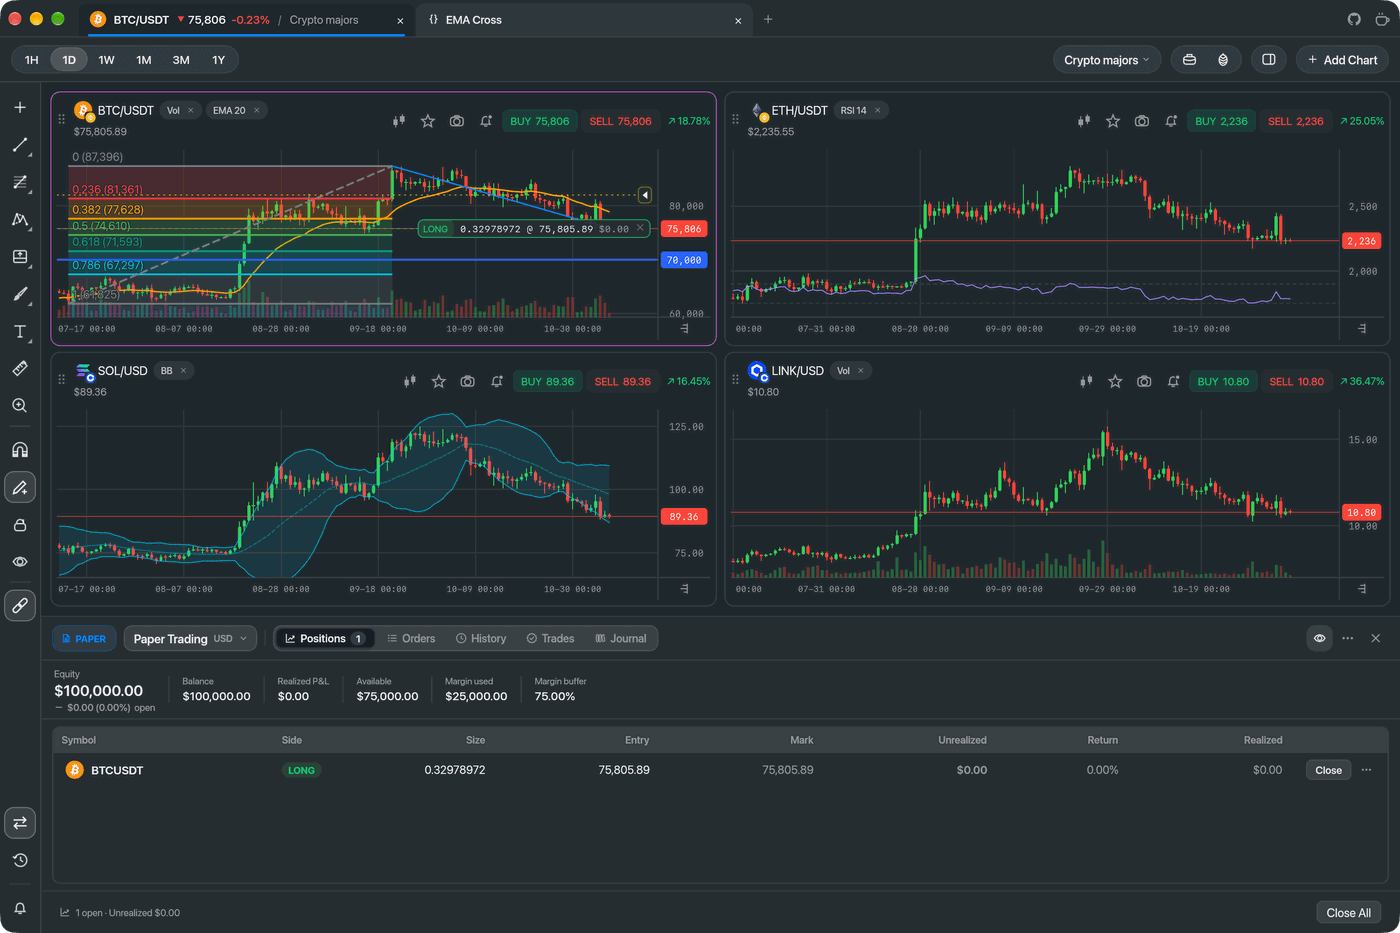
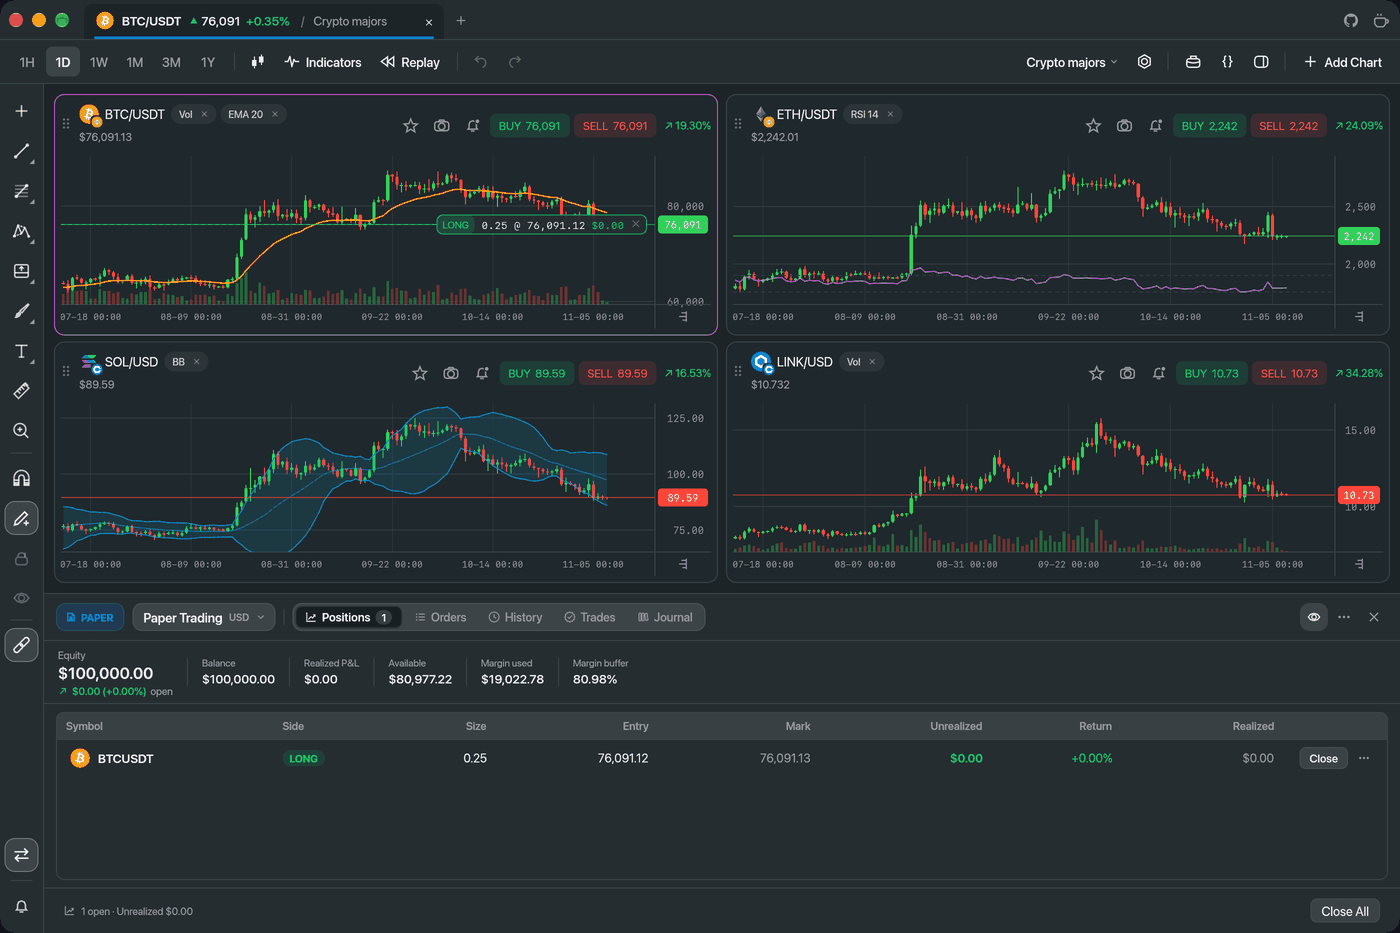
Docs: the flat toolbar, the indicator picker and 25 built-in indicators
The chart type, indicators and replay controls moved out of the chart header
and the tool rail into the toolbar, and the header's "+" menu became the
Indicators picker with 20 bundled Pine indicators. Update the pages that
described the old places and retake the screenshots that show the toolbar:
empty tab, layout tab, watchlist, replay, paper trading, table view, object
tree, layout menu, chart type menu and the indicator picker. Add a toolbar
section to Charts & navigation.

diff --git a/docs/charts/indicators.md b/docs/charts/indicators.md
@@ -1,8 +1,10 @@
 # Indicators
 
-Indicators add context to a chart without changing the price data. DegenView has five built in, and you can add your own with [Pine scripts](/pine/using-scripts).
+Indicators add context to a chart without changing the price data. DegenView has 25 built in: five native ones and 20 that are Pine scripts bundled with the app. You can also add your own with [Pine scripts](/pine/using-scripts).
 
 ## The built-in indicators
+
+Five are native to the chart:
 
 | Indicator | What it shows |
 | --- | --- |
@@ -12,17 +14,42 @@ Indicators add context to a chart without changing the price data. DegenView has
 | **Bollinger Bands** (chip **BB**) | A 20-period average with bands two standard deviations either side. |
 | **Trend Flips** | Bullish and bearish markers from a 10-period ATR × 3 trend line. They appear after the candle closes and can whipsaw in sideways markets. |
 
-Each one can be added once per chart. RSI needs more than 14 candles, so zoom out or pick a longer timeframe if it looks empty.
+Each native indicator can be added once per chart. RSI needs more than 14 candles, so zoom out or pick a longer timeframe if it looks empty.
+
+The other 20 are ordinary Pine scripts that ship inside DegenView. They are always available, never appear in your scripts folder, and have inputs and styles like any script:
+
+| Family | Indicators |
+| --- | --- |
+| **Trend** | Ichimoku Cloud, Parabolic SAR, Moving Average Ribbon, Linear Regression Bands, ADX / DMI, Aroon |
+| **Momentum** | MACD, Stochastic, Stochastic RSI, CCI, Williams %R, Awesome Oscillator |
+| **Volatility** | Donchian Channels, Keltner Channels, ATR |
+| **Volume & Flow** | VWAP, Chaikin Money Flow, Money Flow Index, OBV |
+| **Structure** | Williams Fractals |
+
+Ichimoku, Parabolic SAR, the channels, the ribbon, VWAP, Williams Fractals and Linear Regression Bands draw on the price. The rest get a pane of their own. You can add a bundled indicator more than once, for example two MACDs with different lengths. VWAP needs volume.
 
 ## How to add one
 
-1. Click **+** in the chart header, next to the chips. Once a chart has indicators, the **+** shows while you hover the header.
-2. Type in **Search indicators and scripts**, or use the arrow keys and Return.
-3. Pick an indicator under **Built-in**.
+1. Click a chart to focus it, then click **Indicators** in the toolbar. The picker opens.
+2. Type in the search box, or browse the sidebar. Searching looks through every section and also matches aliases, so "stoch rsi" finds **Stochastic RSI**.
+3. Click a card to see its preview and description, then click **Add to chart**. Return adds the selected one and closes the picker. Shift+Return adds it and keeps the picker open.
 
-![Add indicator menu listing built-in indicators and scripts](/images/charts/add-indicator.png)
+![The indicator picker](/images/charts/add-indicator.png)
 
-Indicators already on the chart are not listed again. Saved Pine scripts appear under **Scripts**, and the footer has **Pine Studio…** and **All Indicator Settings…**.
+The sidebar groups the list:
+
+- **Yours**: **Favorites**, **My scripts** (your saved Pine scripts) and **Open Pine Studio**.
+- **Built-in**: **Overlays** and **Separate pane**.
+- **Library**: **Discover**, a popular row followed by the rest in a shuffled order (click **Shuffle** for another), and **All indicators**.
+- **Families**: Trend, Momentum, Volatility, Volume & Flow and Structure.
+
+Each card shows a small preview chart drawn on made-up bars. The detail panel has the description, the author and licence, and whether the indicator draws on the price (**Overlay**) or in its own pane (**Separate pane**). An indicator already on the chart says **On chart**, and its button reads **Remove from chart** (native ones) or **Add another copy** (scripts and bundled ones). The star next to **Add to chart** adds the indicator to your **Favorites**; press F to do the same from the keyboard. Arrow keys move through the list and Esc, or **Done**, closes the picker.
+
+The button is greyed out when no market chart is focused. On a line chart only Volume is offered of the native indicators, and scripts are not.
+
+## Pine scripts
+
+Your saved indicators and strategies are listed under **My scripts**. Everything added from the picker, native or script, is one step for undo.
 
 ## Chips
 
@@ -36,7 +63,7 @@ When there are more than three chips, the rest fold into a **+N** pill that open
 
 ## Use the settings sheet instead
 
-Open **Chart settings** (click the market name) and choose the **Indicators** tab. It lists all five with a switch each, and the EMA period picker.
+Open **Chart settings** (click the market name) and choose the **Indicators** tab. It lists the five native indicators with a switch each, and the EMA period picker.
 
 ![Indicators page in chart settings](/images/charts/settings-indicators.png)
 
@@ -44,4 +71,4 @@ The same sheet has a **Scripts** tab for Pine scripts on the chart. To remove se
 
 ## Limits
 
-Prediction-market and CoinMarketCap charts are lines, and have no volume bars. CoinMarketCap charts have no indicators or scripts at all. On other line charts the indicator menu lists no Pine scripts.
+Prediction-market and CoinMarketCap charts are lines, and have no volume bars. CoinMarketCap charts have no indicators or scripts at all. On other line charts the picker offers no Pine scripts.

diff --git a/docs/charts/charts.md b/docs/charts/charts.md
@@ -8,10 +8,30 @@ The top of each card is its header, left to right:
 
 - A grip to drag the card to a new place.
 - The source logo, the market name and the last price. Click any of them to open **Chart settings**.
-- Indicator chips and a **+** button. See [Indicators](/charts/indicators).
-- On the right: the chart-type button ([Chart types](/charts/chart-types)), a star for **Favorites**, a camera for [snapshots](/charts/snapshots), a bell for [price alerts](/alerts/price-alerts), and the percent change across the bars you see now. Prediction-market and CoinMarketCap charts have no chart-type button or bell.
+- Indicator chips. See [Indicators](/charts/indicators).
+- On the right: a star for **Favorites**, a camera for [snapshots](/charts/snapshots), a bell for [price alerts](/alerts/price-alerts), and the percent change across the bars you see now. Prediction-market and CoinMarketCap charts have no bell.
+
+The chart type and the indicator picker are not in the header. They are buttons in the toolbar above the cards, and they act on the focused chart.
 
 Under the header is the plot, with the price axis on the right and the time axis at the bottom. A box of open, high, low and close values shows at the top left of the plot while you hover. A **Replay** badge appears in the header during [replay](/trading/replay). Right-click anywhere for the menus described in [Chart settings & templates](/charts/settings-templates).
+
+## The toolbar
+
+The toolbar runs across the top of every chart tab.
+
+![The toolbar](/images/charts/toolbar.png)
+
+From the left:
+
+- **1H, 1D, 1W, 1M, 3M, 1Y** set the candle size for every chart in the tab. See [Adding charts](/markets/adding-charts#timeframe).
+- The **chart-type** button opens the [chart type](/charts/chart-types) menu.
+- **Indicators** opens the [indicator picker](/charts/indicators).
+- **Replay** starts and stops [historical replay](/trading/replay). While a replay is open it is lit.
+- **Undo** and **Redo** step back and forward through changes to drawings, indicators, scripts and zooms. They are greyed out when there is nothing to undo or redo. The keyboard shortcuts do the same (see [Keyboard shortcuts](/reference/shortcuts)).
+
+At the right, the layout menu shows the layout name (see [Layouts](/workspace/layouts)), followed by **Chart settings**, **Portfolio Tracker**, **Pine Studio**, the watchlist button and **Add Chart**.
+
+Chart type, **Indicators** and **Chart settings** act on the focused chart, the one with the highlighted frame. Click a chart to focus it. They are greyed out when there is no market chart to act on, for instance in an empty tab. When the window is narrow, **Indicators**, **Replay** and **Add Chart** drop their labels and keep their icons.
 
 ## Move and zoom
 

diff --git a/docs/charts/chart-types.md b/docs/charts/chart-types.md
@@ -4,7 +4,7 @@ A chart type is how DegenView draws the price: candles, a line, bricks and so on
 
 ## Change the type
 
-Click the chart-type button at the right of the chart header (its tooltip reads **Chart type** and the current type). Type in **Search chart types** to filter, then pick one.
+Click the chart you want to change, then click the chart-type button in the toolbar, just right of the timeframes (its tooltip reads **Chart type** and the current type). Type in **Search chart types** to filter, then pick one. The type changes on the focused chart only.
 
 You can also pick it in **Chart settings ▸ Appearance** under **Chart type ▸ Style**, where a preview and the type's own options appear below.
 
@@ -38,7 +38,7 @@ Open **Chart settings ▸ Appearance** to change colours and options.
 ## When a type is unavailable
 
 - **Volume Candles** is greyed out on CoinGecko. Hover it to read **This source reports no volume**.
-- Prediction markets and CoinMarketCap are drawn as a line. They have no chart-type button, and **Appearance** offers only the line colours.
+- Prediction markets and CoinMarketCap are drawn as a line. The chart-type button is greyed out for them, and **Appearance** offers only the line colours.
 - A saved type a market cannot show falls back to candles.
 
 ## Price-based types: what to know

diff --git a/docs/pine/using-scripts.md b/docs/pine/using-scripts.md
@@ -6,7 +6,7 @@ Once a script is saved, you can run it on any chart, alongside the built-in indi
 
 Pick whichever is nearest:
 
-1. **From the + menu.** Click **+** in the chart header (tooltip **Add Indicator**), search **Search indicators and scripts**, and click a script. Built-in indicators come first, then your saved indicators and strategies. Libraries are not listed, and line charts have no scripts section. A script already on the chart shows **On chart**. Click it again to **Add another copy to this chart**.
+1. **From the indicator picker.** Click a chart, then **Indicators** in the toolbar. Your saved indicators and strategies are under **My scripts**, or search for one by name. Click it, then **Add to chart**. Libraries are not listed, and line charts offer no scripts. A script already on the chart shows **On chart**, and its button reads **Add another copy**. See [Indicators](/charts/indicators).
 2. **From chart settings.** Open **Chart settings ▸ Scripts**. Switch a script on under **Available** (**Your scripts** while none runs yet). Scripts already running are under **On this chart**.
 3. **From Pine Studio.** Right-click a script in the list and choose **Add to Chart**. It goes to the chart you have focused.
 

diff --git a/docs/trading/replay.md b/docs/trading/replay.md
@@ -4,7 +4,7 @@ Replay rewinds a chart to an earlier moment and plays the market forward bar by 
 
 ## Start a replay
 
-Click the **Historical Replay** tile (the clock with an arrow) in the tool sidebar. It needs a market chart, and it applies to every chart in the tab. The replay bar opens with **Choose a start** and these choices:
+Click **Replay** in the toolbar (its tooltip reads **Historical Replay**). It needs a market chart, and it applies to every chart in the tab. The replay bar opens with **Choose a start** and these choices:
 
 ![The replay start choices](/images/trading/replay-start.png)
 
@@ -28,7 +28,7 @@ The start snaps to the nearest bar at or before your choice. Replay can only go 
 - **Speed**: 0.5×, 1×, 2×, 5×, 10×, 20×, 50× or **Max**.
 - **Bars**: **Auto** or **1 bar**. Both step through the chart's own bars.
 - **Choose a new starting point** to pick again.
-- **Close Replay**, or **Live**, to return to the live market.
+- **Close Replay**, or **Live**, to return to the live market. **Replay** in the toolbar closes it too while it is lit.
 
 The bar shows the state: **Choose a start**, **Pick a start**, **Paused**, **Playing**, **Ended** or **Loading history**.
 

diff --git a/docs/getting-started/quick-tour.md b/docs/getting-started/quick-tour.md
@@ -12,11 +12,11 @@ Add a few more charts. Each tab holds a grid of charts that share one timeframe.
 
 ## 2. Pick a timeframe and chart type
 
-Use **1H, 1D, 1W, 1M, 3M, 1Y** at the top left to change the candle size for every chart in the tab. Use the chart-type button in a chart's header to switch between candles, bars, lines, Heikin Ashi, Renko and more. See [Chart types](/charts/chart-types).
+Use **1H, 1D, 1W, 1M, 3M, 1Y** at the top left to change the candle size for every chart in the tab. Click a chart, then use the chart-type button next to the timeframes to switch between candles, bars, lines, Heikin Ashi, Renko and more. See [Chart types](/charts/chart-types).
 
 ## 3. Add indicators
 
-Click the **+** next to a chart's title to add Volume, RSI, EMA, Bollinger Bands or Trend Flips. See [Indicators](/charts/indicators).
+Click a chart, then **Indicators** in the toolbar. The picker has 25 built-in indicators, from Volume and RSI to Ichimoku Cloud and MACD, with a preview of each. See [Indicators](/charts/indicators).
 
 ## 4. Draw on the chart
 

diff --git a/docs/markets/data-sources.md b/docs/markets/data-sources.md
@@ -15,7 +15,7 @@ DegenView gets candles and quotes straight from public market-data providers. Mo
 | **Kalshi** | Predictions | Drawn as a probability line. |
 | **CoinMarketCap** | CoinMarketCap | Altcoin Season Index, Altcoin Season History, Fear & Greed Index and Fear & Greed History. |
 
-Volume exists for Binance, Coinbase, DEXScreener and Alpaca only. Prediction markets and CoinMarketCap charts are drawn as lines: they have no chart-type choice and no volume bars, and the indicator menu offers no Pine scripts on them. CoinMarketCap charts also have no indicators or scripts, so their chart settings offer only **Appearance** and **Canvas**.
+Volume exists for Binance, Coinbase, DEXScreener and Alpaca only. Prediction markets and CoinMarketCap charts are drawn as lines: they have no chart-type choice and no volume bars, and the indicator picker offers no Pine scripts on them. CoinMarketCap charts also have no indicators or scripts, so their chart settings offer only **Appearance** and **Canvas**.
 
 ## How fresh is the data
 

diff --git a/docs/workspace/tabs-windows.md b/docs/workspace/tabs-windows.md
@@ -4,7 +4,7 @@ DegenView keeps your work in tabs. Each tab holds its own set of charts, and you
 
 ## What the tab strip shows
 
-Most tabs are chart tabs. Two special tabs also exist, one of each: the Portfolio Tracker and Pine Studio. Open them from the two round buttons in the toolbar.
+Most tabs are chart tabs. Two special tabs also exist, one of each: the Portfolio Tracker and Pine Studio. Open them from the **Portfolio Tracker** and **Pine Studio** buttons at the right of the toolbar.
 
 A chart tab shows the market logo, symbol, an up or down arrow, live price, percent change and the layout name after a slash. It follows the tab's focused chart. Prediction markets and CoinMarketCap charts show no price.
 

diff --git a/docs/index.md b/docs/index.md
@@ -21,7 +21,7 @@ features:
     details: Search Binance, Coinbase, CoinGecko, DEXScreener, Alpaca stocks, Polymarket, Kalshi and CoinMarketCap indices from one box.
     link: /markets/adding-charts
   - title: Charts you control
-    details: 18 chart types, five built-in indicators, four price scales, linked charts, templates and one-click snapshots.
+    details: 18 chart types, 25 built-in indicators, four price scales, linked charts, templates and one-click snapshots.
     link: /charts/charts
   - title: Over 80 drawing tools
     details: Lines, Fibonacci, Gann, patterns, Elliott waves, forecasts, measurers, notes and more, all anchored to time and price.

diff --git a/docs/pine/overview.md b/docs/pine/overview.md
@@ -18,7 +18,7 @@ Use any of these:
 
 - Click the **Pine Studio** icon in the toolbar, next to **Portfolio Tracker**.
 - Right-click a script's own pane on a chart and choose **Open Pine Studio**.
-- Click **+** in a chart header, then **Pine Studio…** at the bottom of the menu. This opens **Chart settings ▸ Scripts**.
+- Click **Indicators** in the toolbar, then **Open Pine Studio** in the picker's sidebar.
 - In **Chart settings ▸ Scripts**, click **Pine Studio** (**Open Pine Studio** when you have no scripts yet).
 
 Pine Studio is one tab. If it is already open, DegenView switches to it.
